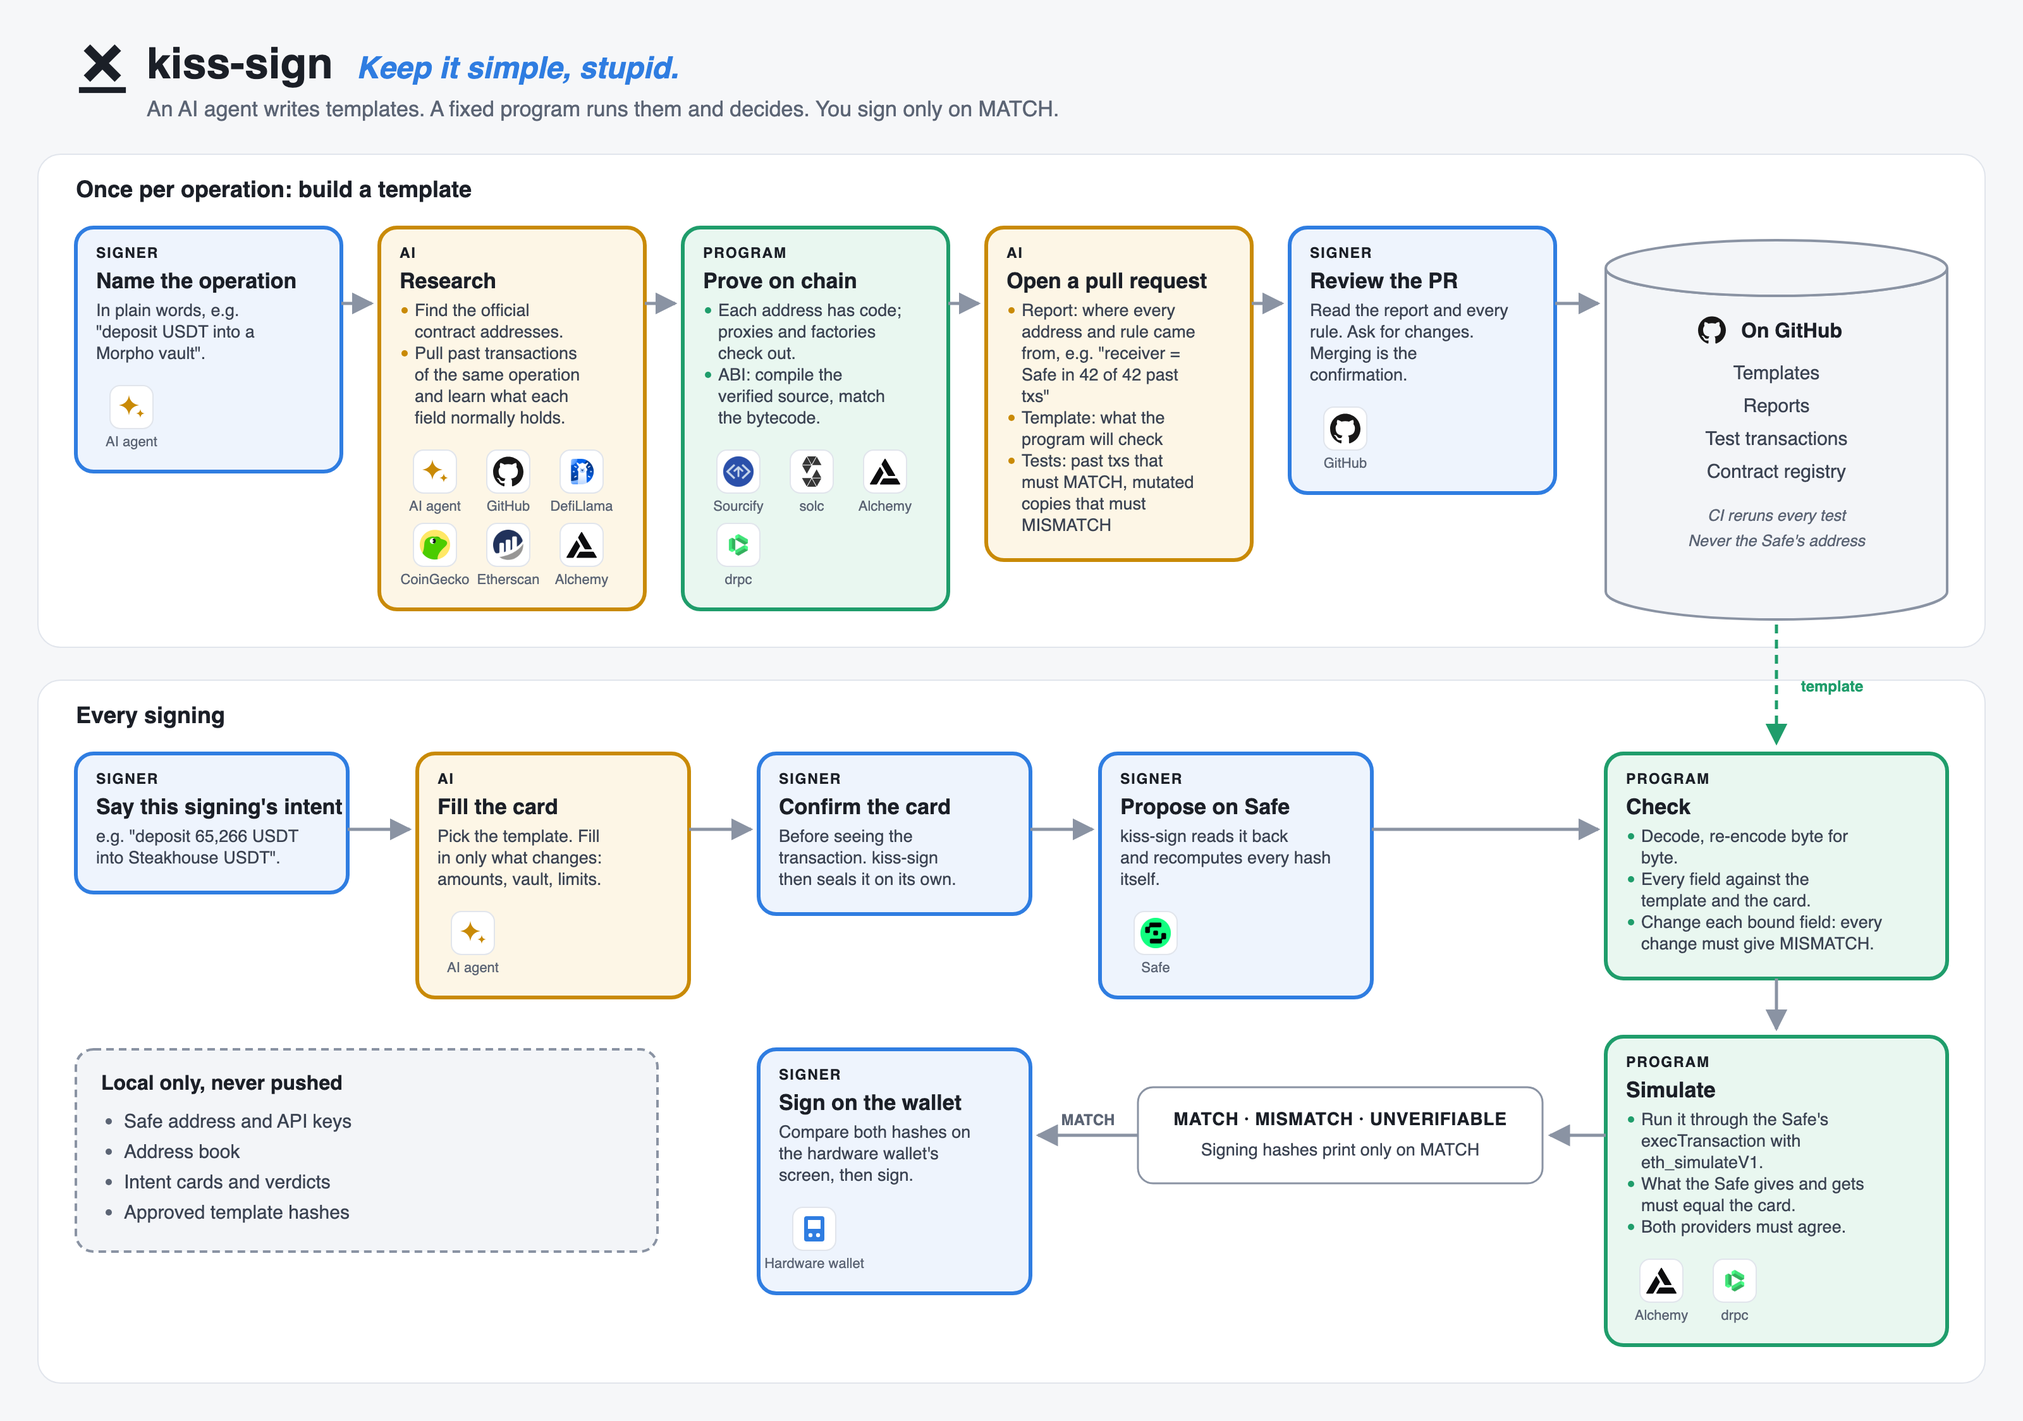
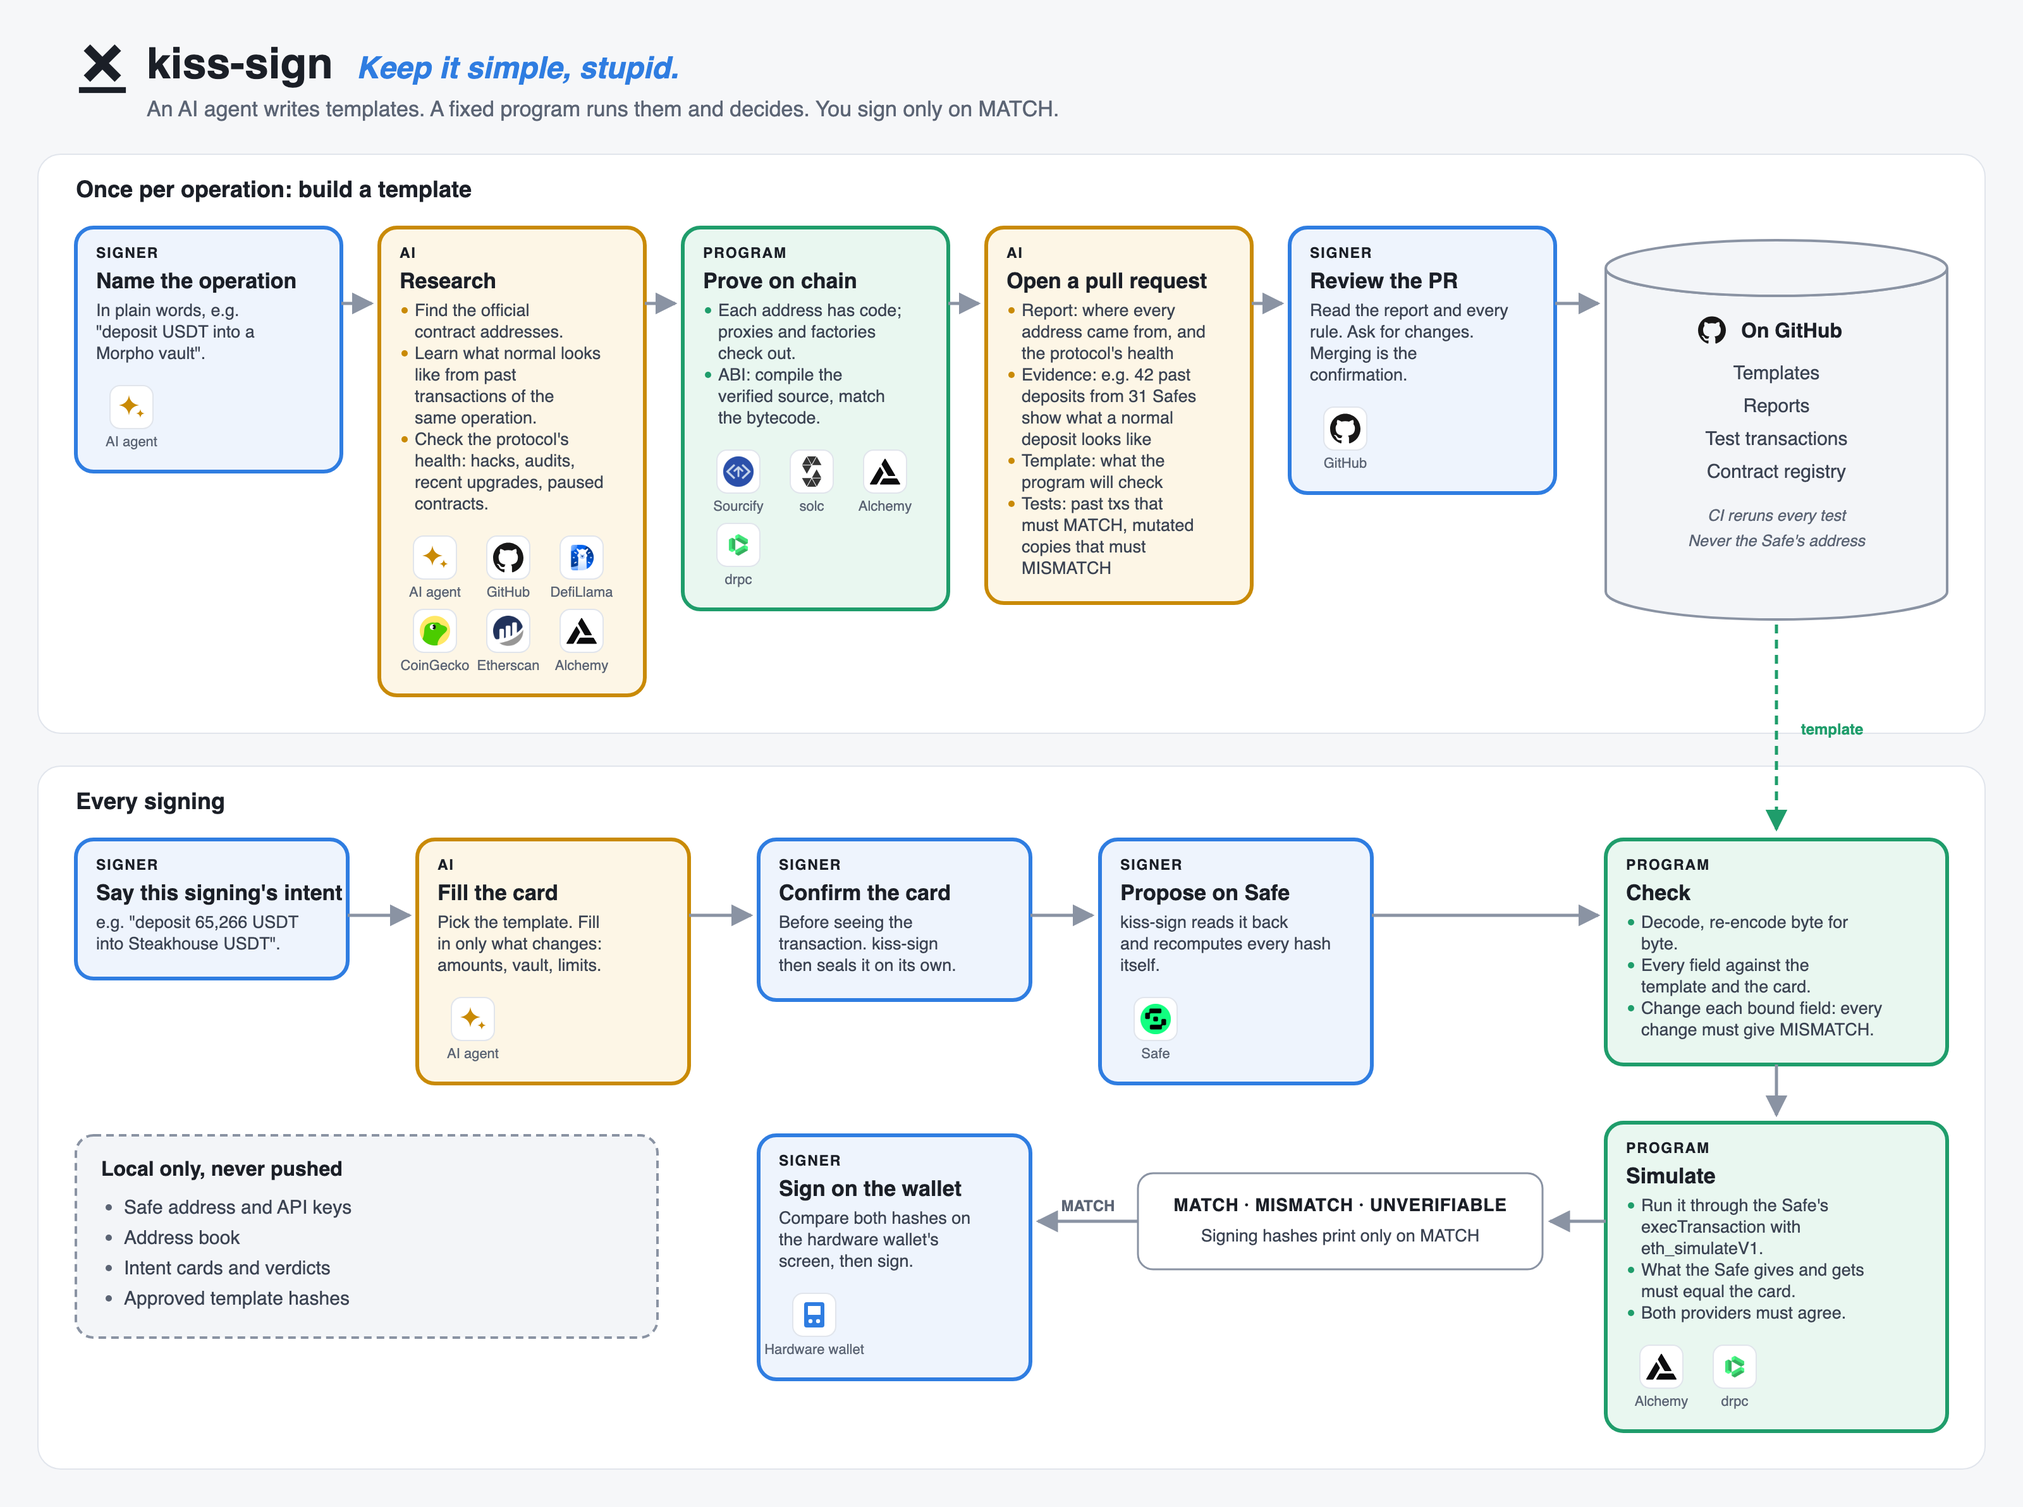
docs: address design review, add protocol health check, defer CoW
- MATCH now means "matches the template and card you approved"; a
  template that was wrong when approved is carried by the review.
- Effects: every balance or allowance change must be explained by the
  template, so transfers are no longer rejected by the old
  "pays and gets nothing" rule.
- Floor rules: the Safe's fee fields must be zero, rules apply at every
  MultiSend level, and fallback handler or implementation changes are
  refused.
- Research checks the protocol's health (hacks, audits, upgrades,
  paused contracts) and the report states how many past transactions
  show what normal looks like.
- CoW orders move to a next-phase section: a pre-signed order settles
  later and needs its own rules.

Claude-Session: https://claude.ai/code/session_019EpkRjp8kF6kL17p1vHkEd

diff --git a/docs/design.md b/docs/design.md
@@ -2,7 +2,7 @@
 
 kiss-sign checks a Safe transaction against what the signer meant to do, before the signer signs it on a hardware wallet. The signer states an intent in plain words. An AI researches the operation and writes a reusable template for it. A fixed program runs that template against the proposed transaction and prints `MATCH`, `MISMATCH`, or `UNVERIFIABLE`. The hashes to compare on the hardware wallet print only on `MATCH`.
 
-The rule the whole design keeps: **the AI writes templates, the program runs them.** The verdict is never the AI's judgment. If the AI is fooled, the worst outcome must be `UNVERIFIABLE` or `MISMATCH`, never a wrong `MATCH`.
+The rule the whole design keeps: **the AI writes templates, the program runs them.** The verdict is never the AI's judgment. `MATCH` means the transaction matches the template and the card the signer approved. If the AI is fooled during signing, the worst outcome must be `UNVERIFIABLE` or `MISMATCH`, never a wrong `MATCH`. A template that was wrong when the signer approved it is not caught by any check; that risk is carried by the review and its evidence.
 
 ## Who does what
 
@@ -20,16 +20,17 @@ The rule the whole design keeps: **the AI writes templates, the program runs the
 2. **Research addresses.** The AI finds the protocol's contracts on its official site and GitHub and cross-checks them across sources. The program confirms on chain that each address has code, which implementation a proxy points to, and which factory created an instance. Each verified contract goes into the contract registry under a name.
 3. **Establish the ABI.** A fixed method, not the AI: fetch the verified source from Sourcify, compile it locally with a pinned `solc`, and compare the result with the bytecode read from chain. For a proxy, compare the implementation. Matching bytecode proves the ABI belongs to the deployed contract.
 4. **Study past transactions.** The AI looks at real transactions of the same operation to learn each field's role and the operation's normal shape. These teach the AI. They prove nothing about safety.
-5. **Report.** Where each address was verified, where the ABI came from, which transactions were studied, what each field means, which contracts the operation touches, and what the template will check. For each field, the report counts how the studied transactions filled it, and from how many distinct senders. For example, "receiver equals the sender in 42 of 42 transactions, from 31 senders." The counts show the template matches normal use. They do not show it is safe, because fake transactions are cheap.
-6. **Write the template.** The AI writes a declarative template (below) and its test transactions, and opens a pull request with the template, the report, and the tests.
-7. **Signer reviews the pull request.** The signer reads the report and the template's rules and asks for changes. Merging the pull request is the confirmation. kiss-sign records the hash of the merged template locally.
+5. **Check the protocol's health.** The AI looks for anything that makes the protocol unsafe to use right now: past hacks and incidents (for example DefiLlama's hack list and the protocol's own post-mortems), audits, recent upgrades, admin or timelock changes, paused or deprecated contracts. Every claim cites its source. This informs the signer's decision; it does not change what the program checks. What the program can read on chain, such as an upgraded implementation or a paused contract, it checks again at every signing.
+6. **Report.** Where each address was verified, where the ABI came from, which transactions were studied, what each field means, which contracts the operation touches, and what the template will check. The report says how many past transactions it studied and from how many senders, for example "42 past deposits from 31 different Safes", and for each field what those transactions held: "`receiver` (who gets the vault shares) was the depositing Safe in all 42". That is the evidence behind the rule "`receiver` equals the Safe". It also carries the protocol health check from step 5. The counts show the template matches normal use. They do not show it is safe, because fake transactions are cheap.
+7. **Write the template.** The AI writes a declarative template (below) and its test transactions, and opens a pull request with the template, the report, and the tests.
+8. **Signer reviews the pull request.** The signer reads the report and the template's rules and asks for changes. Merging the pull request is the confirmation. kiss-sign records the hash of the merged template locally.
 
 ### Every signing
 
-8. **State this signing's intent.** The signer says what to do this time, for example "deposit 65,266 USDT into Steakhouse USDT". The AI picks the template and fills in the card values. The signer reads the card and confirms it before seeing the Safe transaction. kiss-sign then seals the card on its own: it hashes the card and stores it where the AI cannot write. The template is not reviewed again; only the card's values are.
-9. **Propose on Safe.** kiss-sign reads the transaction from the Safe Transaction Service, or the signer pastes it. kiss-sign recomputes every hash itself.
-10. **Verify.** The program decodes the transaction with the template, checks every field, mutates the transaction to confirm the template catches changes, simulates it, and compares the Safe's net effects with the card.
-11. **Sign.** On `MATCH`, the signer compares the domain hash and message hash on the hardware wallet's screen, then signs. Any hardware wallet that shows both hashes for a Safe transaction works.
+9. **State this signing's intent.** The signer says what to do this time, for example "deposit 65,266 USDT into Steakhouse USDT". The AI picks the template and fills in the card values. The signer reads the card and confirms it before seeing the Safe transaction. kiss-sign then seals the card on its own: it hashes the card and stores it where the AI cannot write. The template is not reviewed again; only the card's values are.
+10. **Propose on Safe.** kiss-sign reads the transaction from the Safe Transaction Service, or the signer pastes it. kiss-sign recomputes every hash itself.
+11. **Verify.** The program decodes the transaction with the template, checks every field, mutates the transaction to confirm the template catches changes, simulates it, and compares the Safe's net effects with the card.
+12. **Sign.** On `MATCH`, the signer compares the domain hash and message hash on the hardware wallet's screen, then signs. Any hardware wallet that shows both hashes for a Safe transaction works.
 
 ## Data shapes
 
@@ -56,7 +57,7 @@ Where each value comes from:
 | Source | Confirmed | Examples |
 |---|---|---|
 | Template | Once, when the signer reviews the template | Target contracts, `receiver` and `owner` equal the Safe, the spender of an approval equals a named contract |
-| Contract registry | Once per contract, during research (step 2) | Each Morpho vault, each Fluid fToken, the CoW settlement contract and VaultRelayer, routers |
+| Contract registry | Once per contract, during research (step 2) | Each Morpho vault, each Fluid fToken, routers |
 | Address book | Once per address, by the signer | An external recipient of a transfer |
 | Config | Once, at `init` | The Safe, the chain |
 | The Safe, read on chain | By the program, every signing | The nonce |
@@ -72,7 +73,6 @@ Card values per operation, covering the operations in the Safe's history:
 | Deposit into a vault (Morpho, Fluid) | vault, amount | the asset is the vault's asset; receiver is the Safe; the approval is exact and goes to the vault |
 | Withdraw or redeem from a vault | vault, amount or `all` | receiver and owner are the Safe |
 | Claim rewards (Fluid, Merkl) | reward token | recipient is the Safe; amount and proof are free; the Safe gives nothing and receives only the reward token |
-| CoW order | sell token, sell amount, buy token, minimum buy amount, expiry | receiver is the Safe; the settlement contract and VaultRelayer are named contracts; the approval is exact |
 | Swap through a router (Uniswap, Odos) | sell token, sell amount, buy token, minimum buy amount | recipient is the Safe; the router is a named contract |
 | Cancel a queued transaction | the nonce to replace | 0 ETH to the Safe itself, no data |
 
@@ -116,9 +116,13 @@ These are protocol-free and change rarely.
 
 - The Safe transaction hashes, computed locally.
 - Decode, then re-encode byte for byte, so nothing hides in the encoding.
-- Floor rules: no unlimited approval, no `delegatecall` except to the official MultiSend, no owner, module, guard or threshold change.
+- Floor rules:
+  - no unlimited approval;
+  - no `delegatecall` except to the official MultiSend, and the rules apply again to every call inside it, at every level;
+  - no owner, module, guard, threshold, fallback handler or implementation change;
+  - the Safe's own fee fields are all zero: `safeTxGas`, `baseGas`, `gasPrice`, `gasToken`, `refundReceiver`. Otherwise a correctly hashed transaction can pay a refund to someone else.
 - The mutation check: change each bound field and confirm the template gives `MISMATCH`.
-- Simulation through the Safe's own `execTransaction`, judged by the Safe's balance and allowance changes, not by protocol events. A Safe that pays and gets nothing is `MISMATCH` whatever the template says.
+- Simulation through the Safe's own `execTransaction`, judged by the Safe's balance and allowance changes, not by protocol events. Every change to the Safe's balances and allowances must be one the template's effects explain; any other change is `MISMATCH`, whatever else the template says. A transfer explains its payment by its card's recipient and amount; a deposit or a swap must also receive what its effects promise.
 
 ## Chain access
 
@@ -148,6 +152,10 @@ Not built now. Listed so the path is clear.
 - **Light client (Helios).** Verifies every read against the beacon chain, so one provider is enough. Needs `eth_getProof` (Alchemy has it) and a local EVM to simulate on proven state.
 - **Local simulation (anvil).** Free and open source. Adds execution diversity. On its own it trusts the same RPC state.
 - **A paid or third provider.** Removes rate and range limits and adds an independent source.
+
+## Next phase: CoW orders
+
+A CoW order is not a swap inside the Safe transaction. The transaction only pre-signs an order (`setPreSignature`) and sets an approval; a solver settles the order later. So the order's sell and buy limits, receiver, and expiry live in the order, not in the transaction's effects, and the approval is not spent in the same transaction. Supporting it needs its own rules: rebuild the order from its uid, check every order field against the card, and allow the approval to stay open until the order settles or expires.
 
 ## Out of scope
 

diff --git a/README.md b/README.md
@@ -17,7 +17,7 @@ You state an intent in plain words. An AI researches the operation and writes a 
 - `MISMATCH`: something differs. Do not sign.
 - `UNVERIFIABLE`: kiss-sign could not prove it either way, for example because two chain providers disagreed. Do not sign.
 
-**The AI writes templates, the program runs them.** The verdict is never the AI's judgment. If the AI is fooled, the worst outcome is `UNVERIFIABLE` or `MISMATCH`, never a wrong `MATCH`.
+**The AI writes templates, the program runs them.** The verdict is never the AI's judgment. `MATCH` means the transaction matches the template and the card you approved. If the AI is fooled while you sign, the worst outcome is `UNVERIFIABLE` or `MISMATCH`. What no check can catch is a template that was wrong when you approved it, which is why every template comes with its evidence and is reviewed as a pull request.
 
 > Status: early development. Nothing here is ready to use yet.
 
@@ -39,14 +39,14 @@ TODO: why this tool exists.
 
 ## Build a template (once per operation)
 
-An operation is something like "deposit USDT into a Morpho vault" or "place a CoW order". You build its template the first time you do it, and reuse it afterwards.
+An operation is something like "deposit USDT into a Morpho vault" or "withdraw from a Fluid vault". You build its template the first time you do it, and reuse it afterwards.
 
 | Step | Who | What happens | Services | What it trusts |
 |---|---|---|---|---|
 | 1. Name the operation | Signer | You say in plain words what you want to do. | An AI agent | You agree the AI's restatement is what you meant. |
-| 2. Research | AI | Find the protocol's official contract addresses on its site and GitHub, and cross-check them. Pull past transactions of the same operation and learn what each field normally holds. | An AI agent, GitHub, DefiLlama, CoinGecko, Etherscan, Alchemy | Official sources. Past transactions only teach; they prove nothing about safety, because fakes are cheap. |
+| 2. Research | AI | Find the protocol's official contract addresses on its site and GitHub, and cross-check them. Study past transactions of the same operation to learn what a normal one looks like. Check the protocol's health: past hacks and incidents, audits, recent upgrades or admin changes, paused contracts. | An AI agent, GitHub, DefiLlama, CoinGecko, Etherscan, Alchemy | Official sources. Past transactions only show what normal looks like; they prove nothing about safety, because fakes are cheap. |
 | 3. Prove on chain | Program | Confirm each address has code, which implementation a proxy points to, and which factory created it. Prove the ABI: fetch the verified source from Sourcify, compile it locally with a pinned `solc`, and match the bytecode on chain. | Sourcify, `solc`, Alchemy + drpc | A local compile that matches the chain. Two providers from different companies do not lie together. |
-| 4. Open a pull request | AI | The pull request holds three things. The report: where every address and rule came from, for example "receiver = Safe in 42 of 42 past transactions, from 31 senders". The template: what the program will check, and what the Safe should give and get. The tests: past transactions that must give `MATCH`, and mutated copies that must give `MISMATCH`. | GitHub | Counts show normal use, not safety. |
+| 4. Open a pull request | AI | The pull request holds three things. The report: where every address came from; the protocol's health; and how many past transactions show what normal looks like, for example "42 past deposits from 31 different Safes", with what each field held in them. The template: what the program will check, and what the Safe should give and get. The tests: past transactions that must give `MATCH`, and mutated copies that must give `MISMATCH`. | GitHub | Counts show normal use, not safety. |
 | 5. Review the pull request | Signer | Read the report and every rule, and ask for changes. Merging is the confirmation. CI reruns the tests on every change. | GitHub | Your judgment. |
 
 ## Every signing
@@ -66,7 +66,7 @@ An operation is something like "deposit USDT into a Morpho vault" or "place a Co
 The template is reviewed once. At each signing you confirm only the values that change, for example:
 
 - a vault deposit: which vault and how much;
-- a CoW order: what you sell and how much, what you buy, the minimum you accept, and when it expires;
+- a swap: what you sell and how much, what you buy, and the minimum you accept;
 - a transfer: the token, the amount, and the recipient, which must already be in your address book.
 
 Everything else is bound once: the receiver is the Safe, contracts come from the reviewed registry, the Safe and chain come from your config, and the program reads the nonce from the Safe. See [Intent card](docs/design.md#intent-card) for every operation.
